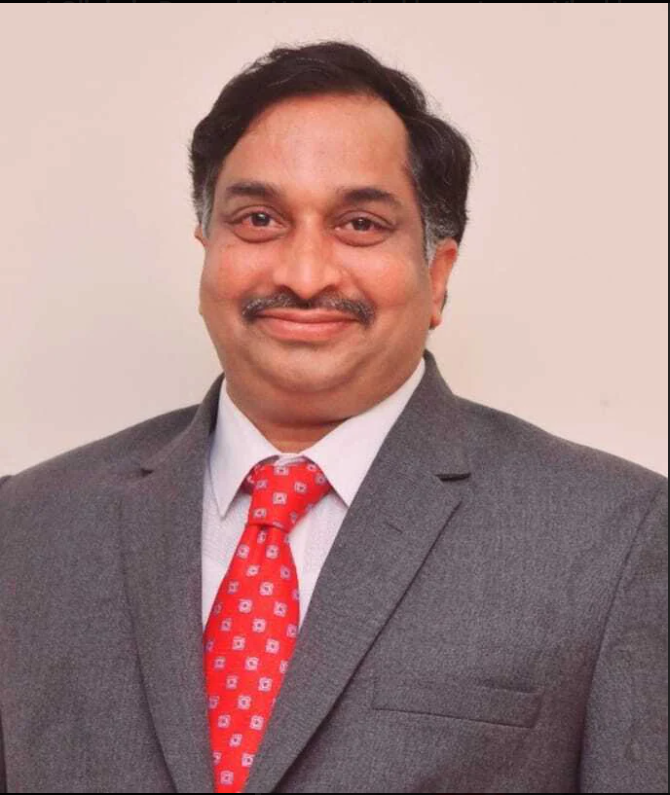
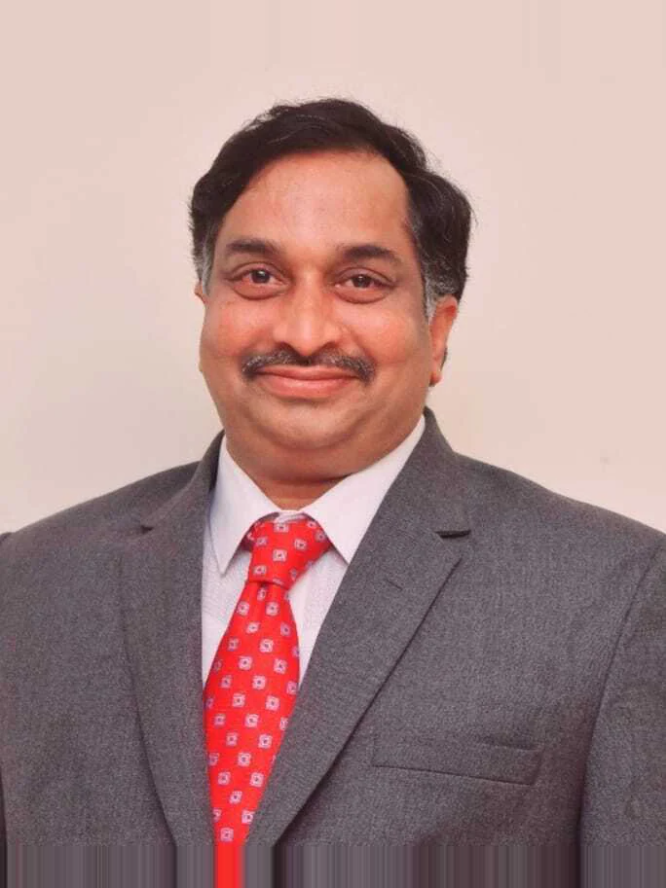
Fix footer name padding overlap and doctor portrait alignment/border artifacts

diff --git a/src/tier1-components/Footer.tsx b/src/tier1-components/Footer.tsx
@@ -18,51 +18,53 @@ export default function Footer({ data }: FooterProps) {
       <div className="mx-auto max-w-[1440px] px-4 sm:px-6 lg:px-8 relative z-10 flex flex-col gap-3">
 
         {/* Main Content Row */}
-        <div className="flex flex-col lg:flex-row lg:items-center lg:justify-between gap-3 lg:gap-4">
+        <div className="flex flex-col xl:flex-row xl:items-center xl:justify-between gap-3 xl:gap-6 py-1">
 
-          {/* Hospital Logo & Title */}
-          <div className="flex items-center gap-3">
+          {/* Hospital Logo & Title with dedicated padding to avoid overlapping */}
+          <div className="flex items-center gap-3 shrink-0 pr-6 lg:pr-10">
             <img
               src="/logo.svg"
               alt={`${data.brand.title} Logo`}
-              className="h-12 w-auto object-contain"
+              className="h-10 sm:h-12 w-auto object-contain shrink-0"
             />
-            <div className="h-5 w-[1px] bg-slate-700/50 hidden sm:block" />
-            <span className="text-xs sm:text-sm font-bold text-white tracking-wide whitespace-nowrap">
+            <div className="h-5 w-[1px] bg-slate-700/50 hidden sm:block shrink-0" />
+            <span className="text-xs sm:text-sm font-bold text-white tracking-wide max-w-sm sm:max-w-md xl:max-w-lg leading-snug">
               {data.brand.title}
             </span>
           </div>
 
-          {/* Contact & Location Details */}
-          <div className="flex flex-wrap items-center gap-x-3 gap-y-1.5 text-xs text-slate-400 font-medium">
-            <span className="flex items-center gap-1">
-              <span>📍</span> {data.reachOut.address.replace(/\n.*/g, '')}
-            </span>
+          {/* Contact & Location Details + Action Button */}
+          <div className="flex flex-wrap items-center justify-between xl:justify-end gap-3 sm:gap-x-4 sm:gap-y-2 text-xs text-slate-400 font-medium">
+            <div className="flex flex-wrap items-center gap-x-3 gap-y-1.5">
+              <span className="flex items-center gap-1.5">
+                <span>📍</span> {data.reachOut.address.replace(/\n.*/g, '')}
+              </span>
 
-            <span className="text-slate-700 hidden md:inline">|</span>
+              <span className="text-slate-700 hidden md:inline">|</span>
 
-            <a href={data.reachOut.phone1.href} className="flex items-center gap-1 hover:text-white transition-colors">
-              <span>☎</span> {data.reachOut.phone1.display}
-            </a>
+              <a href={data.reachOut.phone1.href} className="flex items-center gap-1.5 hover:text-white transition-colors">
+                <span>☎</span> {data.reachOut.phone1.display}
+              </a>
 
-            <span className="text-slate-700 hidden md:inline">|</span>
+              <span className="text-slate-700 hidden md:inline">|</span>
 
-            <a href={data.reachOut.phone2.href} className="flex items-center gap-1 hover:text-white transition-colors">
-              <span>📱</span> {data.reachOut.phone2.display}
-            </a>
-          </div>
+              <a href={data.reachOut.phone2.href} className="flex items-center gap-1.5 hover:text-white transition-colors">
+                <span>📱</span> {data.reachOut.phone2.display}
+              </a>
+            </div>
 
-          {/* Compact Action Buttons */}
-          <div className="flex items-center gap-2">
-            <motion.a
-              whileHover={{ scale: 1.02 }}
-              whileTap={{ scale: 0.98 }}
-              href={data.reachOut?.phone1?.href || "tel:+919849146668"}
-              className="inline-flex items-center gap-1.5 rounded-full bg-blue-600 hover:bg-blue-700 text-white font-bold text-[10px] sm:text-[11px] py-1.5 px-3.5 shadow-sm transition-colors whitespace-nowrap"
-            >
-              <Phone className="h-3 w-3" />
-              <span>Call Now</span>
-            </motion.a>
+            {/* Compact Action Buttons */}
+            <div className="flex items-center gap-2 shrink-0 ml-auto xl:ml-3">
+              <motion.a
+                whileHover={{ scale: 1.02 }}
+                whileTap={{ scale: 0.98 }}
+                href={data.reachOut?.phone1?.href || "tel:+919849146668"}
+                className="inline-flex items-center gap-1.5 rounded-full bg-blue-600 hover:bg-blue-700 text-white font-bold text-[10px] sm:text-[11px] py-1.5 px-3.5 shadow-sm transition-colors whitespace-nowrap"
+              >
+                <Phone className="h-3 w-3" />
+                <span>Call Now</span>
+              </motion.a>
+            </div>
           </div>
 
         </div>

diff --git a/src/components/ui/Footer.tsx b/src/components/ui/Footer.tsx
@@ -14,45 +14,47 @@ export default function Footer() {
       <div className="mx-auto max-w-[1440px] px-4 sm:px-6 lg:px-8 relative z-10 flex flex-col gap-3">
 
         {/* Main Content Row */}
-        <div className="flex flex-col lg:flex-row lg:items-center lg:justify-between gap-3 lg:gap-4">
+        <div className="flex flex-col xl:flex-row xl:items-center xl:justify-between gap-3 xl:gap-6 py-1">
 
           {/* Hospital Logo & Title */}
-          <div className="flex items-center gap-3">
+          <div className="flex items-center gap-3 shrink-0 pr-6 lg:pr-10">
             <img
               src="/logo.svg"
               alt="Rekon Centre Logo"
-              className="h-12 w-auto object-contain"
+              className="h-10 sm:h-12 w-auto object-contain shrink-0"
             />
-            <div className="h-5 w-[1px] bg-slate-700/50 hidden sm:block" />
-            <span className="text-xs sm:text-sm font-bold text-white tracking-wide whitespace-nowrap">
-              Rekon Centre
+            <div className="h-5 w-[1px] bg-slate-700/50 hidden sm:block shrink-0" />
+            <span className="text-xs sm:text-sm font-bold text-white tracking-wide max-w-sm sm:max-w-md xl:max-w-lg leading-snug">
+              Rekon Centre For Joint Replacement Surgery and Orthopedics
             </span>
           </div>
 
-          {/* Contact & Location Details */}
-          <div className="flex flex-wrap items-center gap-x-3 gap-y-1.5 text-xs text-slate-400 font-medium">
-            <span className="flex items-center gap-1">
-              <span>📍</span> Srinagar, Visakhapatnam
-            </span>
+          {/* Contact & Location Details + Action Button */}
+          <div className="flex flex-wrap items-center justify-between xl:justify-end gap-3 sm:gap-x-4 sm:gap-y-2 text-xs text-slate-400 font-medium">
+            <div className="flex flex-wrap items-center gap-x-3 gap-y-1.5">
+              <span className="flex items-center gap-1.5">
+                <span>📍</span> 48-3-65, B.V.K. College Road, Srinagar, Visakhapatnam
+              </span>
 
-            <span className="text-slate-700 hidden md:inline">|</span>
+              <span className="text-slate-700 hidden md:inline">|</span>
 
-            <a href="tel:+919849146668" className="flex items-center gap-1 hover:text-white transition-colors">
-              <span>📞</span> +91 98491 46668
-            </a>
-          </div>
+              <a href="tel:+919849146668" className="flex items-center gap-1.5 hover:text-white transition-colors">
+                <span>📞</span> +91 98491 46668
+              </a>
+            </div>
 
-          {/* Compact Action Buttons */}
-          <div className="flex items-center gap-2">
-            <motion.a
-              whileHover={{ scale: 1.02 }}
-              whileTap={{ scale: 0.98 }}
-              href="tel:+919849146668"
-              className="inline-flex items-center gap-1.5 rounded-full bg-blue-600 hover:bg-blue-700 text-white font-bold text-[10px] sm:text-[11px] py-1.5 px-3.5 shadow-sm transition-colors whitespace-nowrap"
-            >
-              <Phone className="h-3 w-3" />
-              <span>Call Now</span>
-            </motion.a>
+            {/* Compact Action Buttons */}
+            <div className="flex items-center gap-2 shrink-0 ml-auto xl:ml-3">
+              <motion.a
+                whileHover={{ scale: 1.02 }}
+                whileTap={{ scale: 0.98 }}
+                href="tel:+919849146668"
+                className="inline-flex items-center gap-1.5 rounded-full bg-blue-600 hover:bg-blue-700 text-white font-bold text-[10px] sm:text-[11px] py-1.5 px-3.5 shadow-sm transition-colors whitespace-nowrap"
+              >
+                <Phone className="h-3 w-3" />
+                <span>Call Now</span>
+              </motion.a>
+            </div>
           </div>
 
         </div>

diff --git a/src/tier2-layouts/DoctorLayout.tsx b/src/tier2-layouts/DoctorLayout.tsx
@@ -28,11 +28,11 @@ export default function Doctor({ onOpenBooking, data }: DoctorProps) {
               className="lg:col-span-4 flex justify-center"
             >
               <div className="relative rounded-2xl overflow-hidden border border-amber-200/60 dark:border-zinc-700 bg-gradient-to-b from-amber-50/50 to-white dark:from-zinc-800/80 dark:to-zinc-900 shadow-lg p-2.5 w-full max-w-[240px] sm:max-w-[260px]">
-                <div className="relative aspect-[3/4] w-full rounded-xl overflow-hidden bg-slate-100 dark:bg-zinc-800 shadow-inner">
+                <div className="relative aspect-[3/4] w-full rounded-xl overflow-hidden bg-slate-100 dark:bg-zinc-800">
                   <img
                     src={data.image || "/images/dr_varma.png"}
                     alt={data.headline || "Dr. B. V. R. N. Varma"}
-                    className="w-full h-full object-cover object-top"
+                    className="w-full h-full object-cover object-center"
                   />
                   {/* Doctor Info Badge Overlay */}
                   <div className="absolute bottom-2.5 left-2.5 right-2.5 bg-[#112338]/95 backdrop-blur-md text-white py-2 px-3 rounded-lg text-center shadow border border-white/10">
